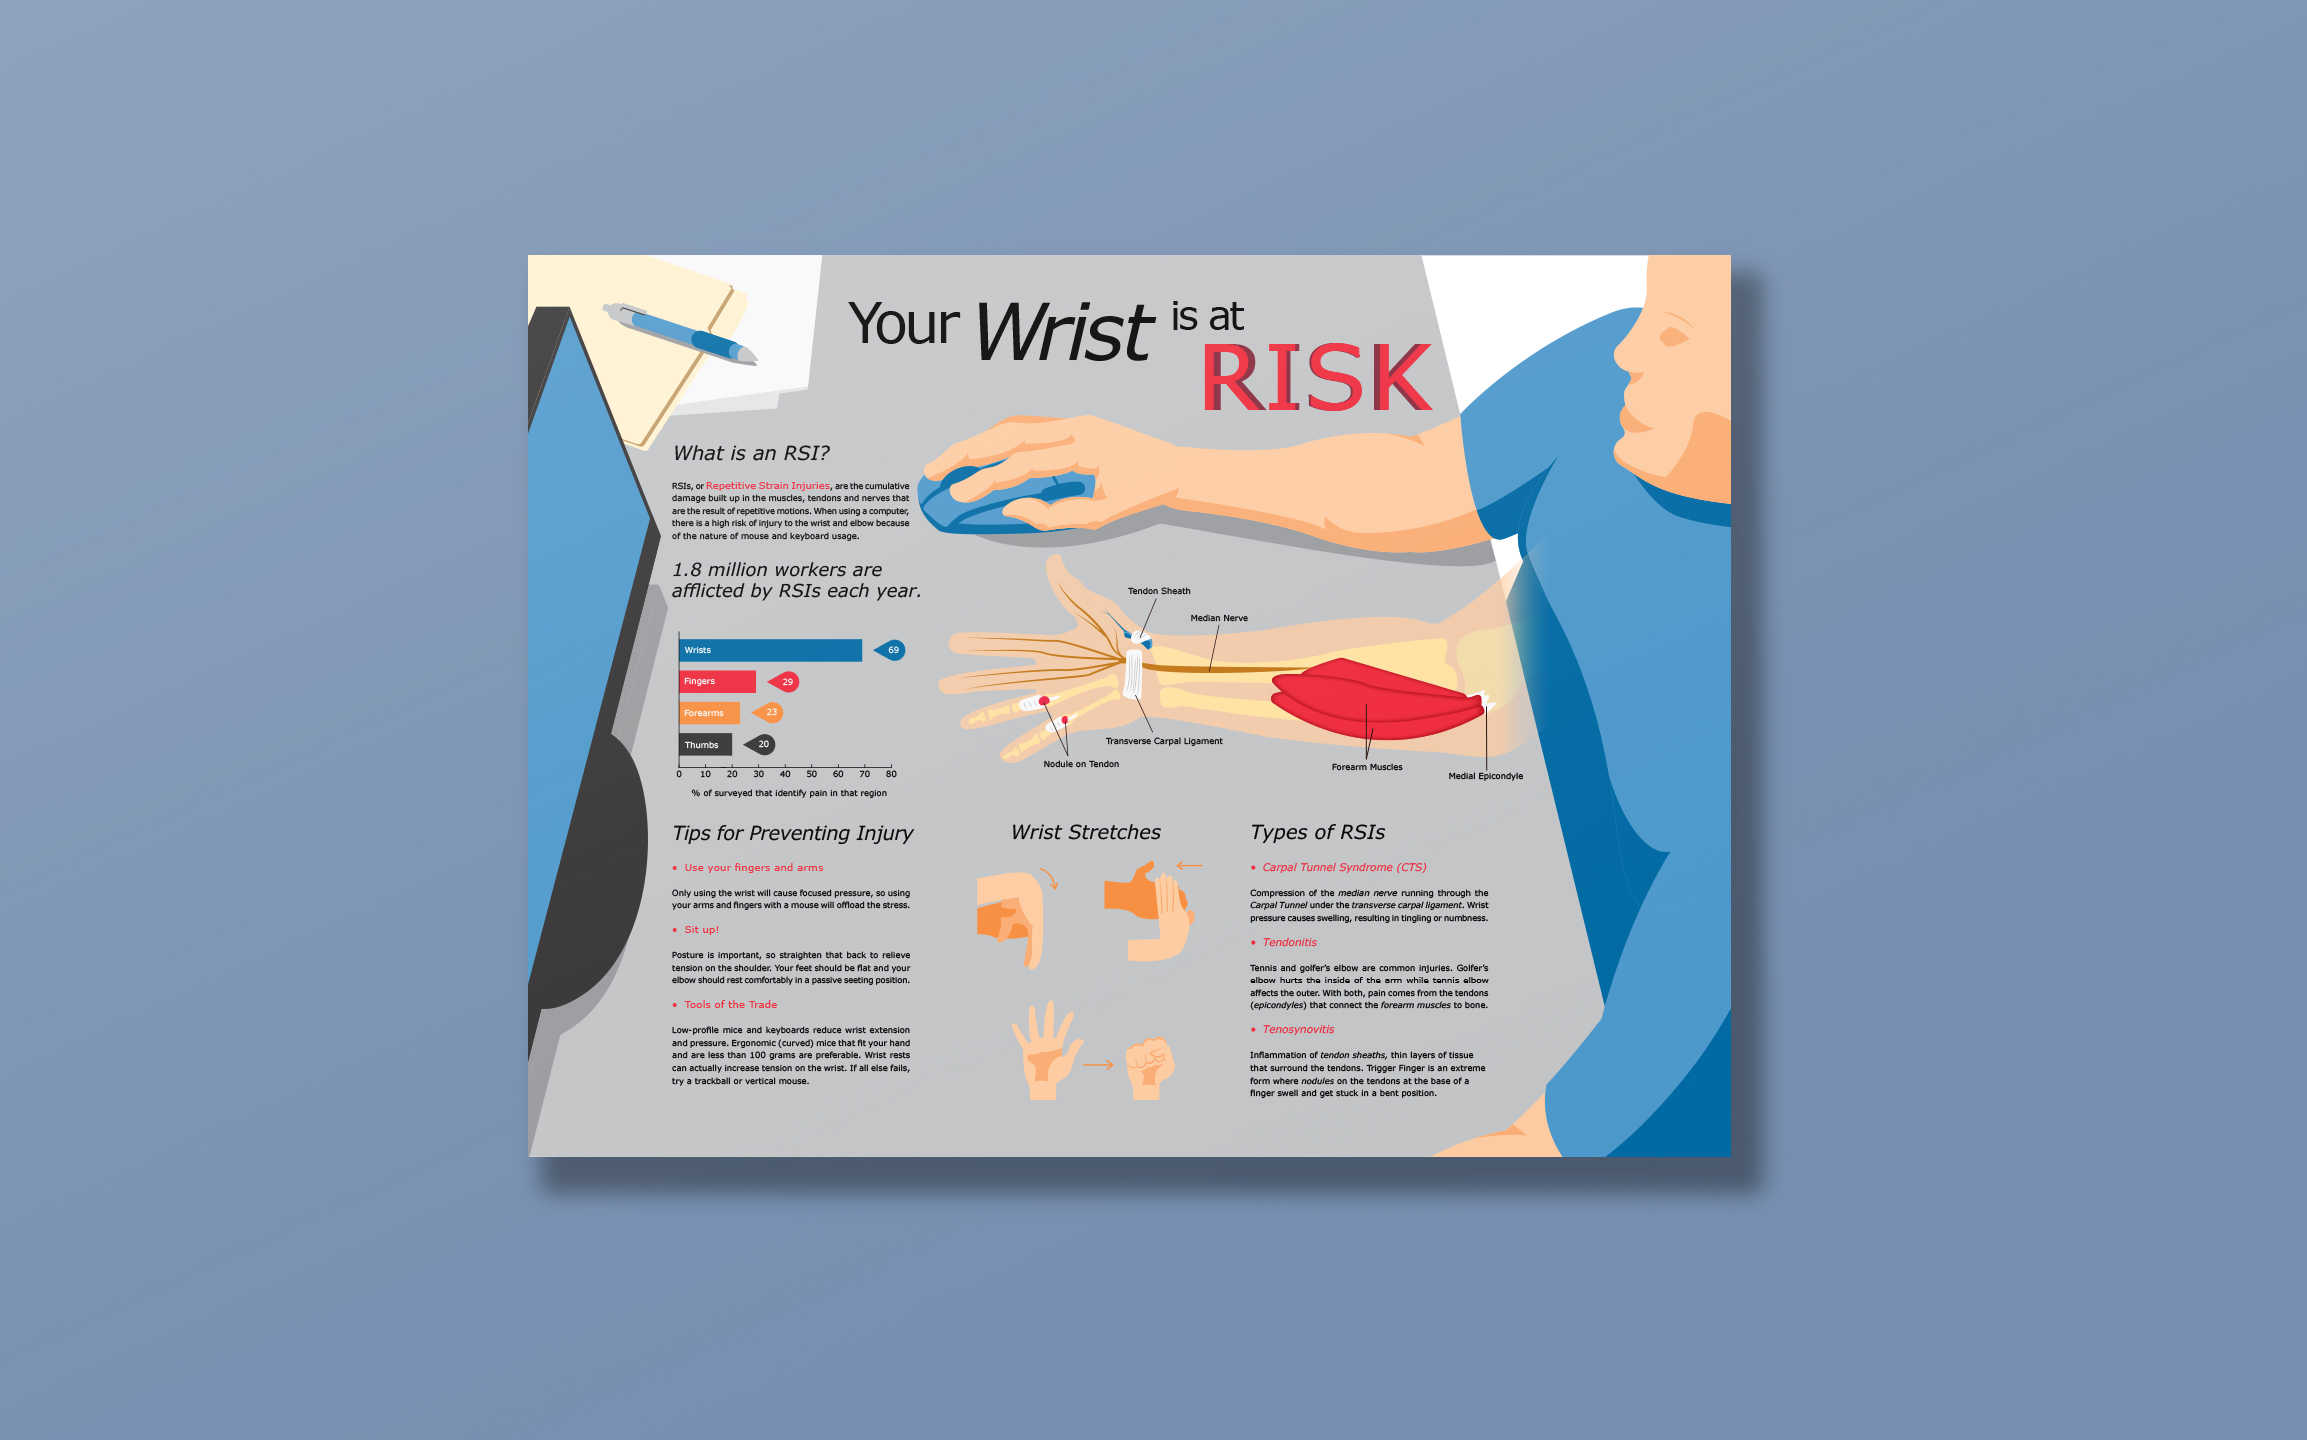
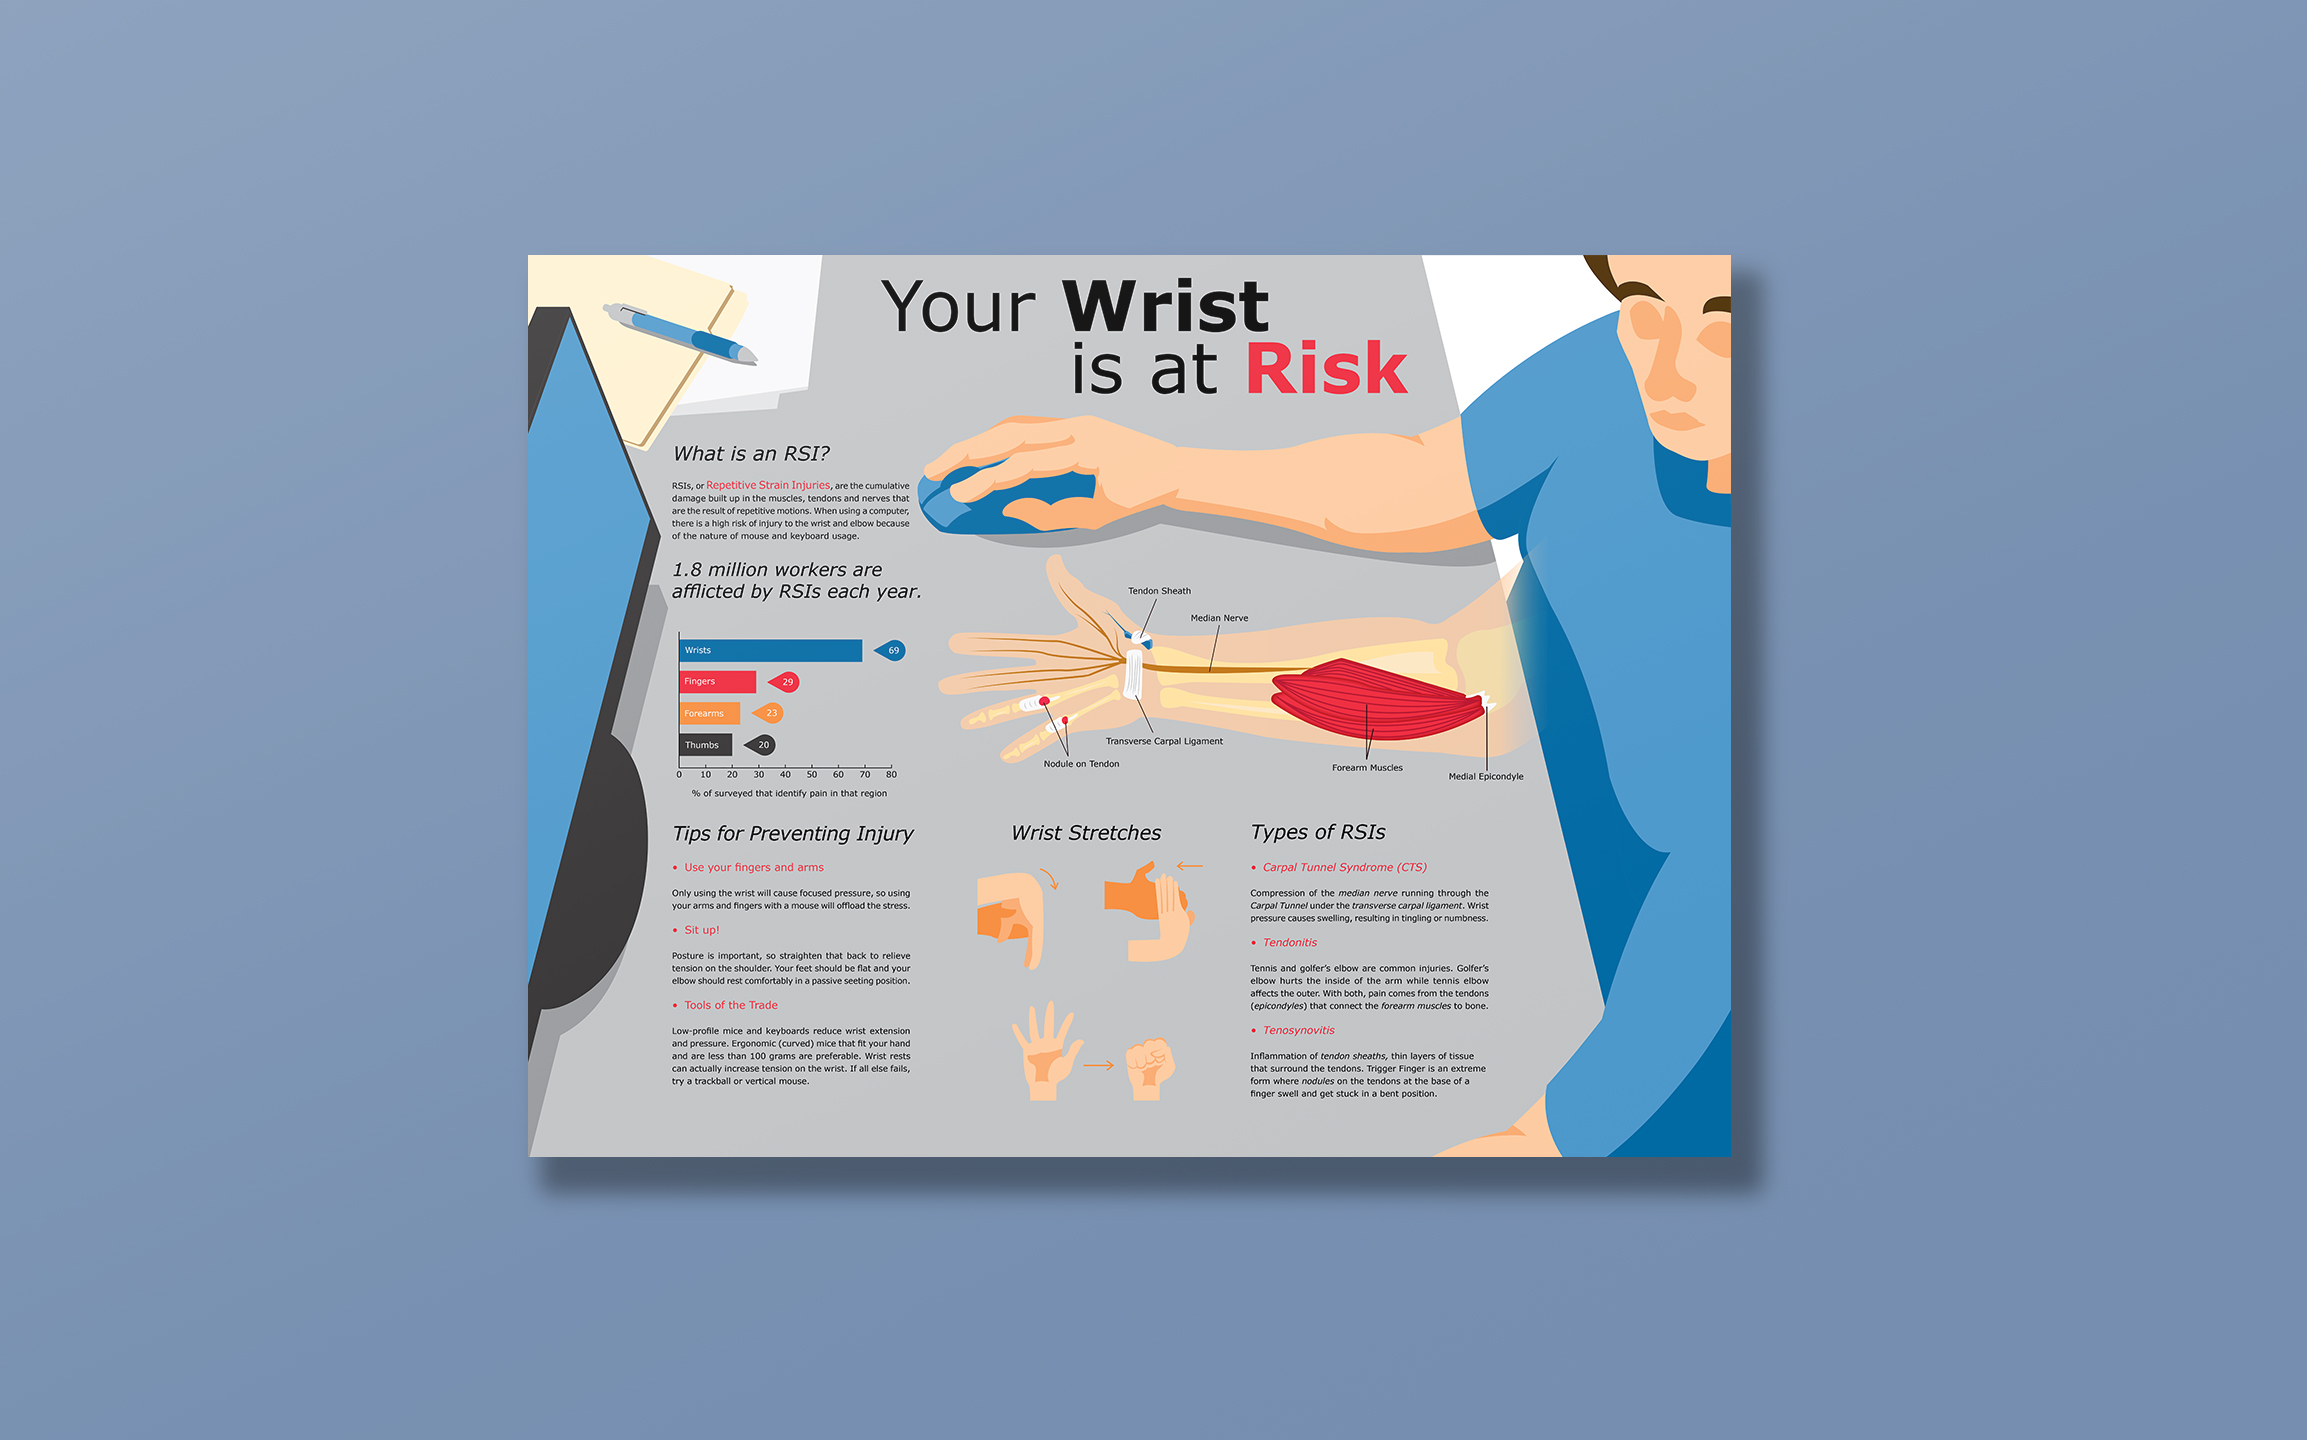
Portfolio Update 2025

diff --git a/info.html b/info.html
@@ -71,7 +71,7 @@
                 </div>
 
                 <h2 class="span">
-                    RSI Infographic
+                    Repetitive Strain Injury Infographic
                 </h2>
                 <p class="span">A poster warning of the effects of repetitive strain injuries.
                     <br>Illustrator, InDesign

diff --git a/mow.html b/mow.html
@@ -62,7 +62,7 @@
 
                 <h2 class="span" >Meals on Wheels: Process Documentation</h2>
                     
-                    <p class="span">Brainstorming with word webs associated with the Meals on Wheels brand and a variety of sketches to explore visual solutions</p>
+                    <p class="span">Brainstorming with word webs associated with the Meals on Wheels brand and a variety of sketches to explore visual solutions.</p>
                 <a href="assets/portpics/mow3.jpg" data-lightbox="mow1"><img class="portpics" src="assets/portpics/mow3.jpg"></a>
                 <div class="flex">
                     <a href="assets/portpics/mow4.jpg" data-lightbox="mow1"><img class="portpics" src="assets/portpics/mow4.jpg"></a>